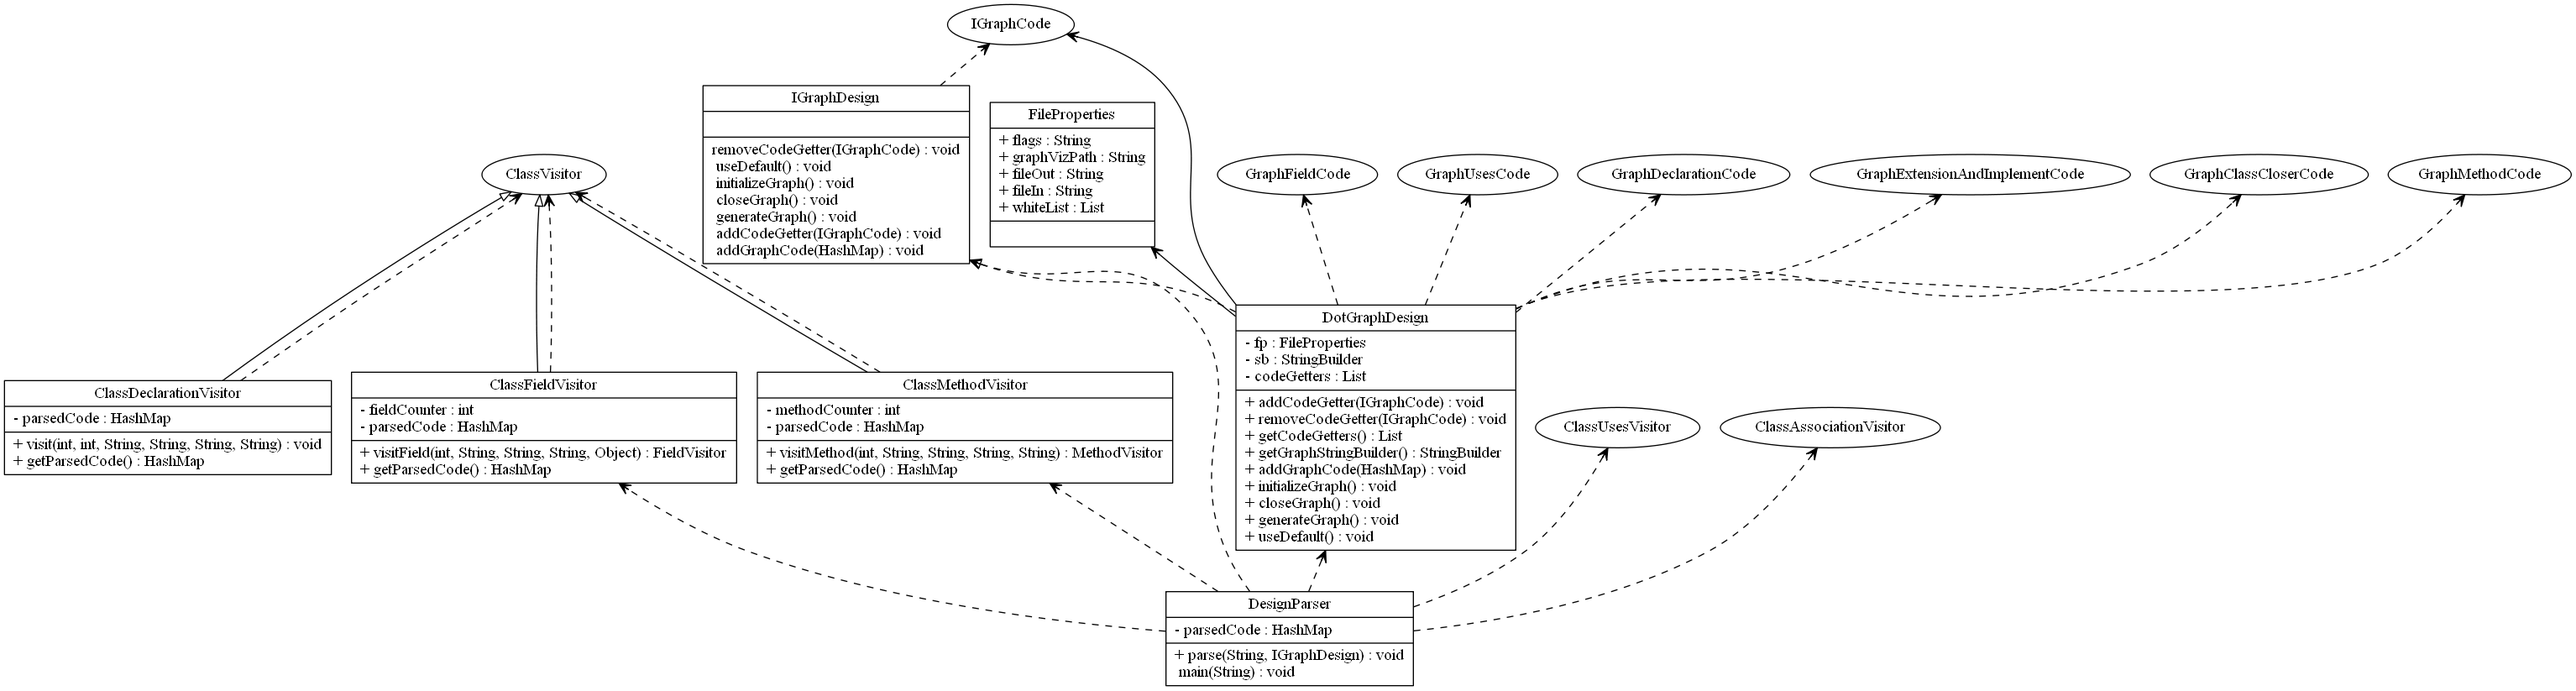
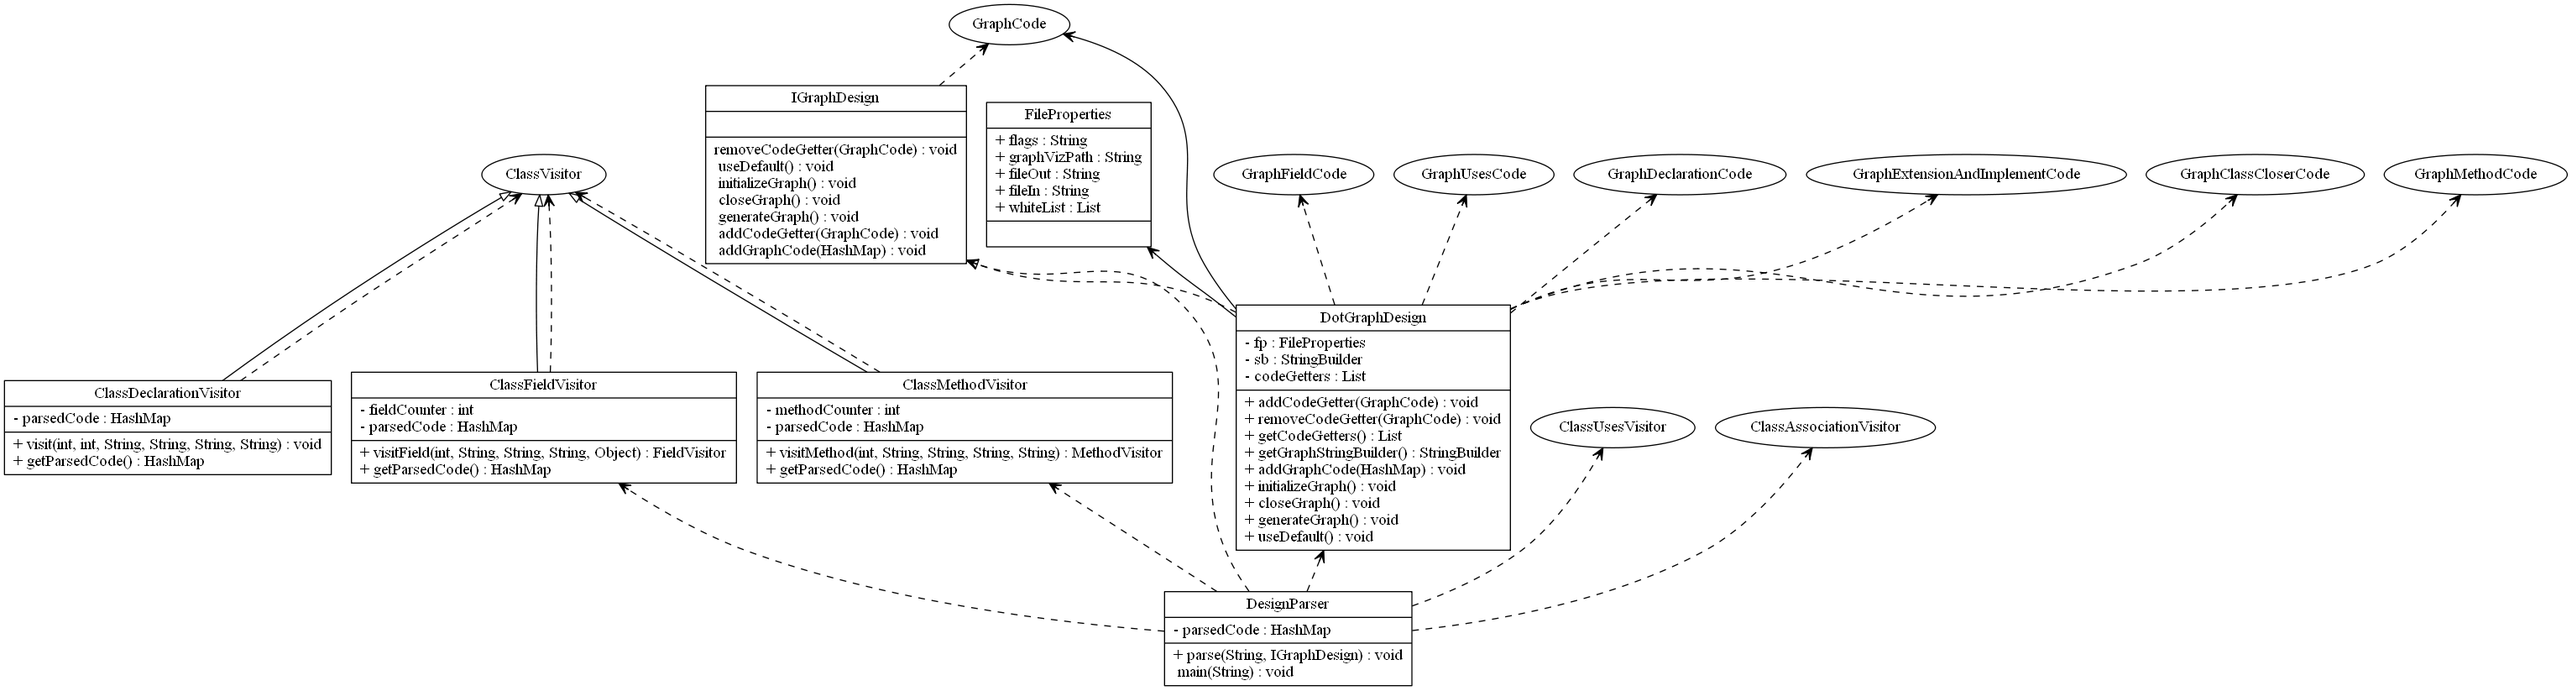
Fixed naming convention

diff --git a/test/problem/GraphCodeTest.java b/test/problem/GraphCodeTest.java
@@ -8,13 +8,13 @@ import junit.framework.Assert;
 
 import org.junit.Test;
 
-import problem.api.GraphCode;
+import problem.api.AbstractGraphCode;
 
 public class GraphCodeTest {
 	
 	@Test
 	public final void testGraphMethodCode() {
-		GraphCode codeGetter = new GraphMethodCode();
+		AbstractGraphCode codeGetter = new GraphMethodCode();
 		HashMap<String, String> items = new HashMap<String, String>();
 		StringBuilder expected = new StringBuilder();
 		
@@ -33,7 +33,7 @@ public class GraphCodeTest {
 	
 	@Test
 	public final void testGraphFieldCode() {
-		GraphCode codeGetter = new GraphFieldCode();
+		AbstractGraphCode codeGetter = new GraphFieldCode();
 		HashMap<String, String> items = new HashMap<String, String>();
 		StringBuilder expected = new StringBuilder();
 		expected.append("|");
@@ -53,7 +53,7 @@ public class GraphCodeTest {
 	
 	@Test
 	public final void testGraphExtensionAndImplementationCode() {
-		GraphCode codeGetter = new GraphExtensionAndImplementCode();
+		AbstractGraphCode codeGetter = new GraphExtensionAndImplementCode();
 		HashMap<String, String> items = new HashMap<String, String>();
 		StringBuilder expected = new StringBuilder();
 		
@@ -86,7 +86,7 @@ public class GraphCodeTest {
 	
 	@Test
 	public final void testGraphDeclarationCode() {
-		GraphCode codeGetter = new GraphDeclarationCode();
+		AbstractGraphCode codeGetter = new GraphDeclarationCode();
 		HashMap<String, String> items = new HashMap<String, String>();
 		StringBuilder expected = new StringBuilder();
 		
@@ -99,7 +99,7 @@ public class GraphCodeTest {
 	
 	@Test
 	public final void testGraphCloserCode() {
-		GraphCode codeGetter = new GraphClassCloserCode();
+		AbstractGraphCode codeGetter = new GraphClassCloserCode();
 		HashMap<String, String> items = new HashMap<String, String>();
 		StringBuilder expected = new StringBuilder();
 		
@@ -110,7 +110,7 @@ public class GraphCodeTest {
 	
 	@Test
 	public final void testGraphUsesCode() {
-		GraphCode codeGetter = new GraphUsesCode();
+		AbstractGraphCode codeGetter = new GraphUsesCode();
 		HashMap<String, String> items = new HashMap<String, String>();
 		StringBuilder expected = new StringBuilder();
 		
@@ -141,7 +141,7 @@ public class GraphCodeTest {
 	
 	@Test
 	public final void testGraphUsesCodeAssociation() {
-		GraphCode codeGetter = new GraphUsesCode();
+		AbstractGraphCode codeGetter = new GraphUsesCode();
 		HashMap<String, String> items = new HashMap<String, String>();
 		StringBuilder expected = new StringBuilder();
 		

diff --git a/src/problem/DotGraphDesign.java b/src/problem/DotGraphDesign.java
@@ -7,13 +7,13 @@ import java.util.ArrayList;
 import java.util.HashMap;
 import java.util.List;
 
-import problem.api.GraphCode;
+import problem.api.AbstractGraphCode;
 import problem.api.IGraphDesign;
 
 public class DotGraphDesign implements IGraphDesign {
 	private StringBuilder sb = new StringBuilder();
 	private FileProperties fp = new FileProperties();
-	private List<GraphCode> codeGetters = new ArrayList<GraphCode>();
+	private List<AbstractGraphCode> codeGetters = new ArrayList<AbstractGraphCode>();
 
 	@Override
 	public void addGraphCode(HashMap<String, String> items) {
@@ -47,16 +47,16 @@ public class DotGraphDesign implements IGraphDesign {
 	}
 
 	@Override
-	public void addCodeGetter(GraphCode getter) {
+	public void addCodeGetter(AbstractGraphCode getter) {
 		this.codeGetters.add(getter);
 	}
 
 	@Override
-	public void removeCodeGetter(GraphCode getter) {
+	public void removeCodeGetter(AbstractGraphCode getter) {
 		this.codeGetters.remove(getter);		
 	}
 	
-	public List<GraphCode> getCodeGetters() {
+	public List<AbstractGraphCode> getCodeGetters() {
 		return this.codeGetters;
 	}
 

diff --git a/test/problem/DotGraphDesignTest.java b/test/problem/DotGraphDesignTest.java
@@ -3,7 +3,7 @@ package problem;
 import org.junit.Assert;
 import org.junit.Test;
 
-import problem.api.GraphCode;
+import problem.api.AbstractGraphCode;
 
 public class DotGraphDesignTest {
 	DotGraphDesign graph;
@@ -11,7 +11,7 @@ public class DotGraphDesignTest {
 	@Test
 	public final void testaddCodeGetter() {
 		graph = new DotGraphDesign();
-		GraphCode getter = new GraphFieldCode();
+		AbstractGraphCode getter = new GraphFieldCode();
 		
 		graph.addCodeGetter(getter);
 		
@@ -21,8 +21,8 @@ public class DotGraphDesignTest {
 	@Test
 	public final void testRemoveCodeGetter() {
 		graph = new DotGraphDesign();
-		GraphCode getter1 = new GraphFieldCode();
-		GraphCode getter2 = new GraphFieldCode();
+		AbstractGraphCode getter1 = new GraphFieldCode();
+		AbstractGraphCode getter2 = new GraphFieldCode();
 		graph.addCodeGetter(getter1);
 		graph.addCodeGetter(getter2);
 		graph.removeCodeGetter(getter2);

diff --git a/src/problem/api/IGraphDesign.java b/src/problem/api/IGraphDesign.java
@@ -9,7 +9,7 @@ public interface IGraphDesign {
 	public void initializeGraph();
 	public void closeGraph();
 	public void generateGraph() throws IOException;
-	public void addCodeGetter(GraphCode getter);
-	public void removeCodeGetter(GraphCode getter);
+	public void addCodeGetter(AbstractGraphCode getter);
+	public void removeCodeGetter(AbstractGraphCode getter);
 	public void useDefault();
 }

diff --git a/src/problem/GraphDeclarationCode.java b/src/problem/GraphDeclarationCode.java
@@ -4,9 +4,9 @@ import java.util.HashMap;
 
 import com.sun.xml.internal.ws.org.objectweb.asm.Opcodes;
 
-import problem.api.GraphCode;
+import problem.api.AbstractGraphCode;
 
-public class GraphDeclarationCode extends GraphCode {
+public class GraphDeclarationCode extends AbstractGraphCode {
 	
 	public GraphDeclarationCode() {
 		super();

diff --git a/src/problem/GraphExtensionAndImplementCode.java b/src/problem/GraphExtensionAndImplementCode.java
@@ -2,9 +2,9 @@ package problem;
 
 import java.util.HashMap;
 
-import problem.api.GraphCode;
+import problem.api.AbstractGraphCode;
 
-public class GraphExtensionAndImplementCode extends GraphCode {
+public class GraphExtensionAndImplementCode extends AbstractGraphCode {
 
 	public GraphExtensionAndImplementCode() {
 		super();

diff --git a/src/problem/GraphMethodCode.java b/src/problem/GraphMethodCode.java
@@ -3,9 +3,9 @@ package problem;
 import java.util.ArrayList;
 import java.util.HashMap;
 
-import problem.api.GraphCode;
+import problem.api.AbstractGraphCode;
 
-public class GraphMethodCode extends GraphCode {
+public class GraphMethodCode extends AbstractGraphCode {
 
 	public GraphMethodCode() {
 		super();

diff --git a/src/problem/GraphUsesCode.java b/src/problem/GraphUsesCode.java
@@ -4,9 +4,9 @@ import java.util.ArrayList;
 import java.util.HashMap;
 import java.util.List;
 
-import problem.api.GraphCode;
+import problem.api.AbstractGraphCode;
 
-public class GraphUsesCode extends GraphCode {
+public class GraphUsesCode extends AbstractGraphCode {
 
 	public GraphUsesCode() {
 		super();

diff --git a/src/problem/GraphClassCloserCode.java b/src/problem/GraphClassCloserCode.java
@@ -2,9 +2,9 @@ package problem;
 
 import java.util.HashMap;
 
-import problem.api.GraphCode;
+import problem.api.AbstractGraphCode;
 
-public class GraphClassCloserCode extends GraphCode {
+public class GraphClassCloserCode extends AbstractGraphCode {
 
 	public GraphClassCloserCode() {
 		super();

diff --git a/src/problem/GraphFieldCode.java b/src/problem/GraphFieldCode.java
@@ -2,9 +2,9 @@ package problem;
 
 import java.util.HashMap;
 
-import problem.api.GraphCode;
+import problem.api.AbstractGraphCode;
 
-public class GraphFieldCode extends GraphCode {
+public class GraphFieldCode extends AbstractGraphCode {
 
 	public GraphFieldCode() {
 		super();

diff --git a/src/problem/api/AbstractGraphCode.java b/src/problem/api/AbstractGraphCode.java
@@ -4,9 +4,9 @@ import java.util.HashMap;
 
 import com.sun.xml.internal.ws.org.objectweb.asm.Opcodes;
 
-public abstract class GraphCode {
+public abstract class AbstractGraphCode {
 	
-	public GraphCode() {
+	public AbstractGraphCode() {
 		
 	}
 	
